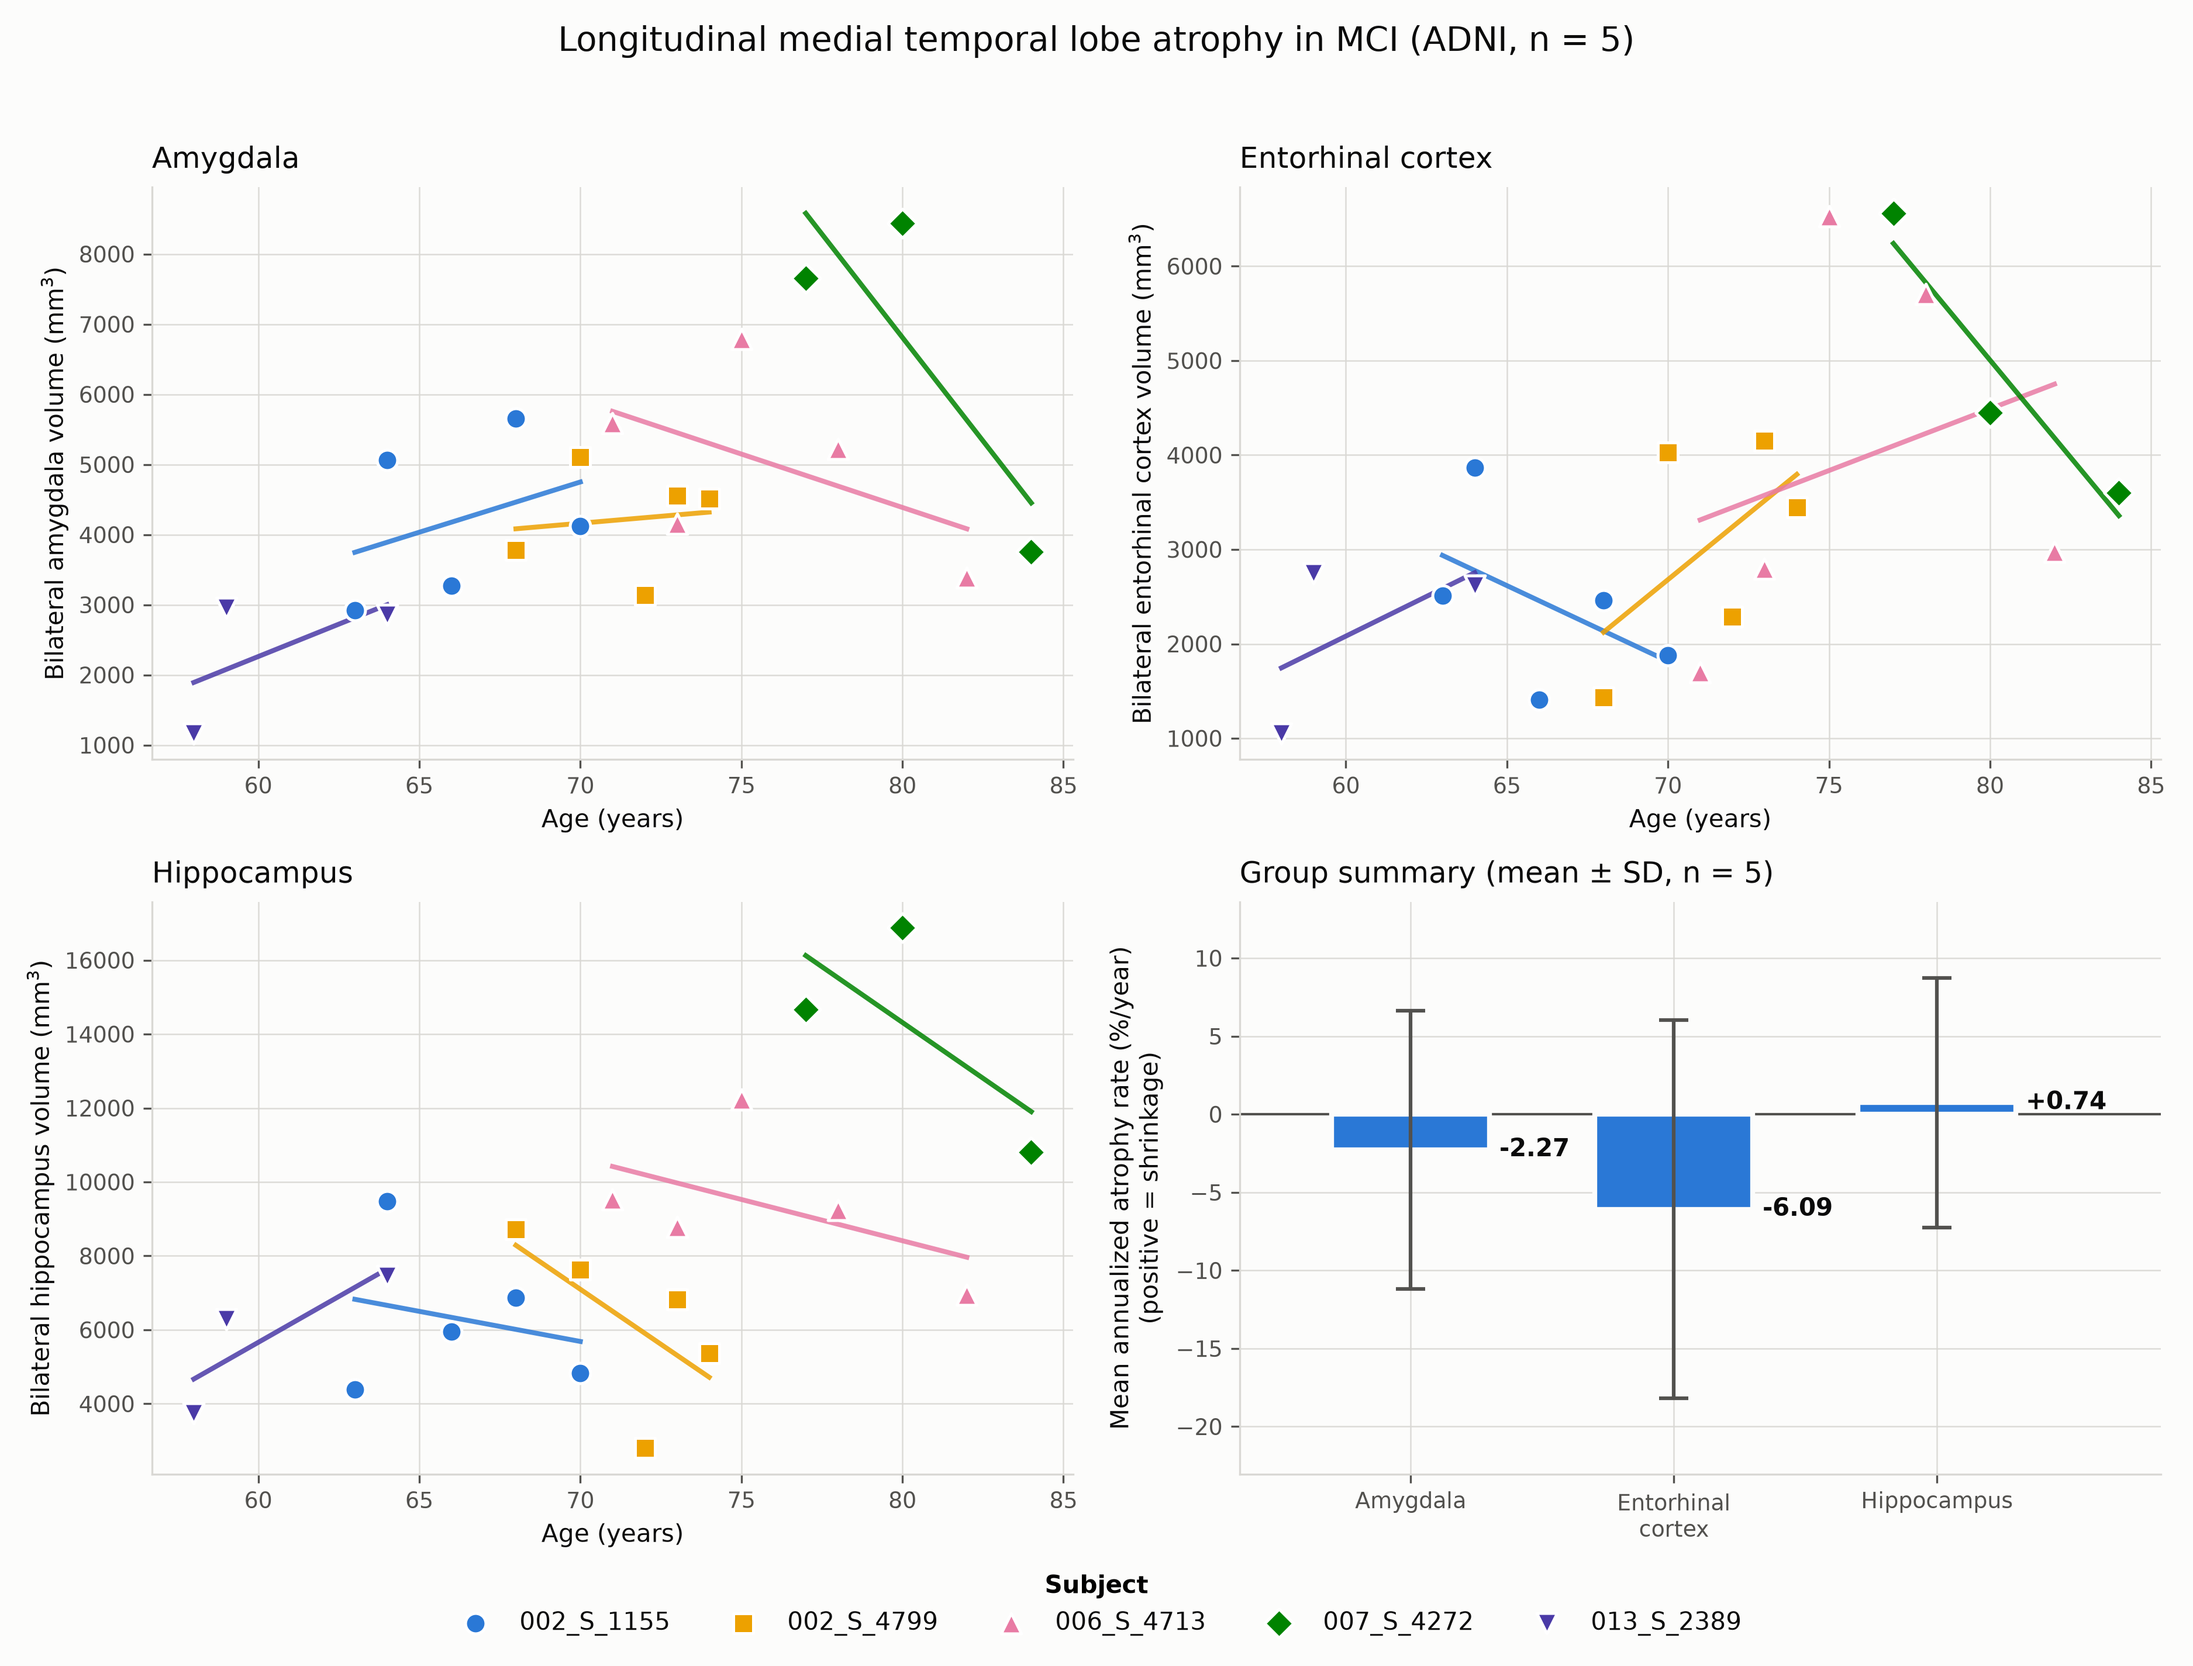
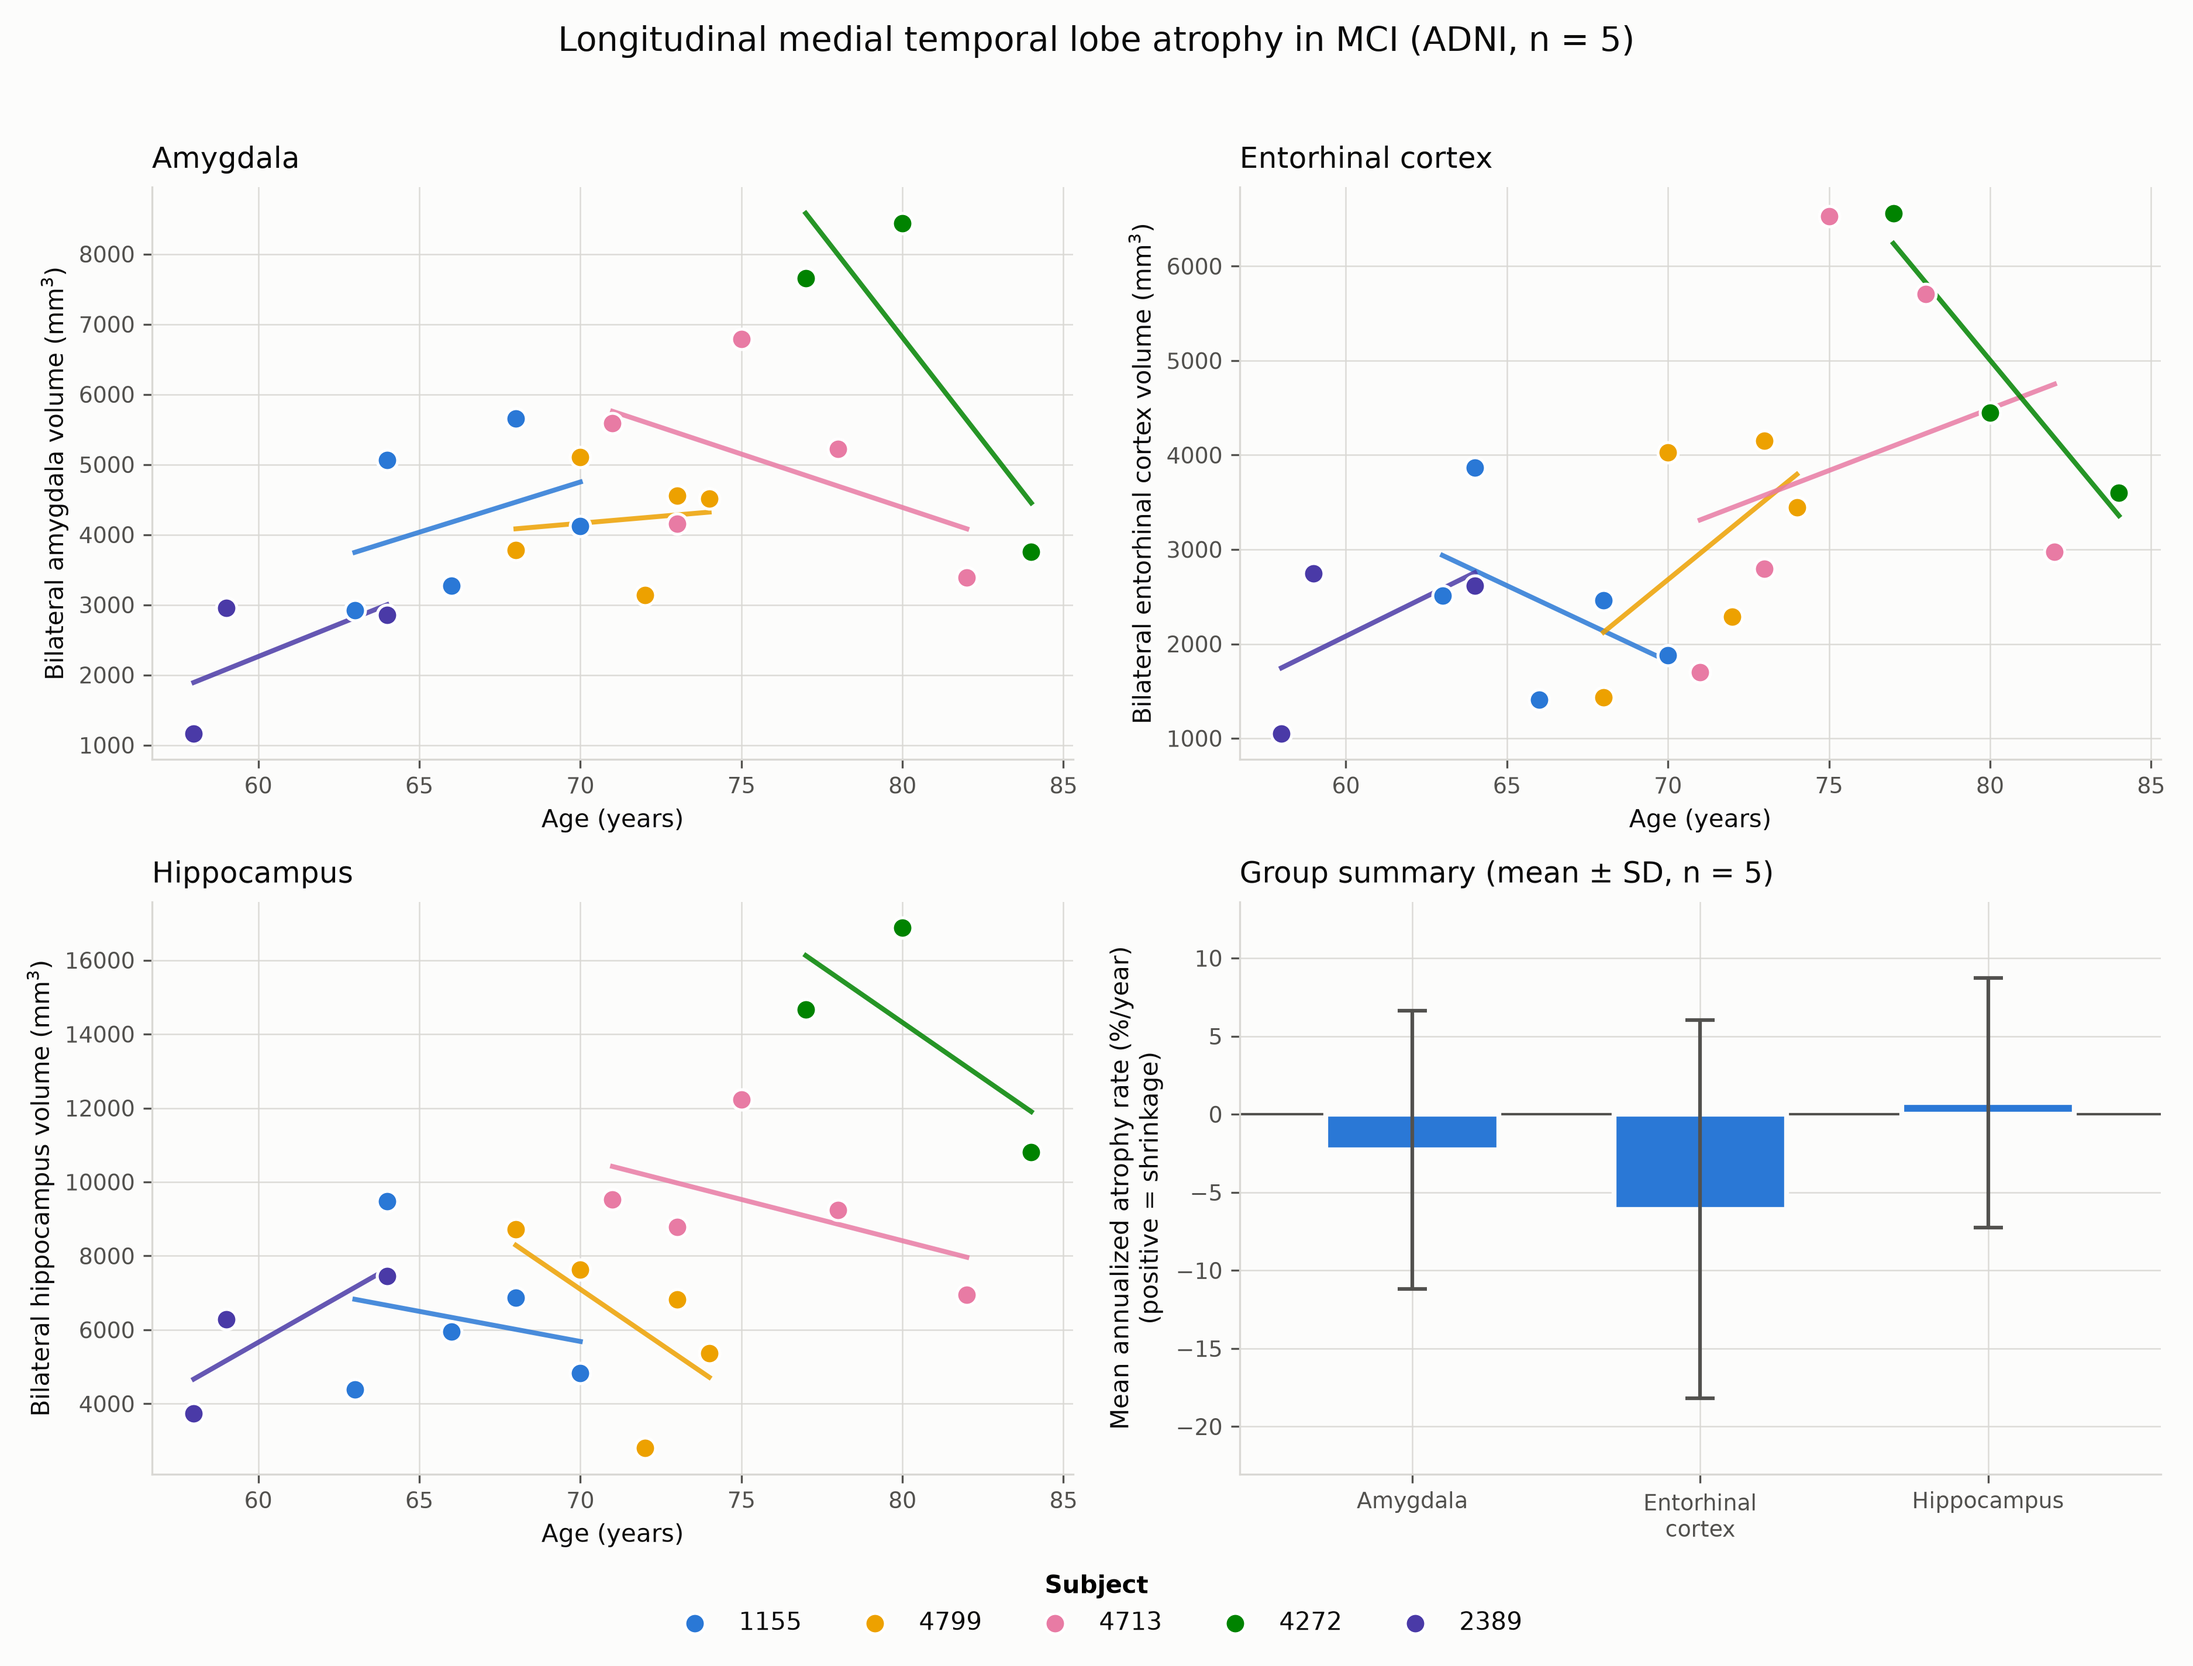
Simplify 2x2 figure styling
- legend labels use the 4-digit subject suffix only
- one marker shape and size for all subjects; colour alone distinguishes
  them, which the palette supports on its own
- drop the printed mean values from the group summary bars

Full subject IDs are still written to the regression CSV.

Claude-Session: https://claude.ai/code/session_01Rjm8mXHdUcS4P64mVTGEAv

diff --git a/make_2x2_figure.py b/make_2x2_figure.py
@@ -21,13 +21,15 @@ from mtl_data import MTL_VOLUMES, REGIONS, SUBJECT_IDS
 
 # Categorical hues validated for all-pairs CVD separation (dataviz palette,
 # slots blue/yellow/magenta/green/violet: CVD dE 13.0, normal-vision dE 16.3).
-SUBJECT_STYLE = {
-    "1155": ("#2a78d6", "o"),
-    "4799": ("#eda100", "s"),
-    "4713": ("#e87ba4", "^"),
-    "4272": ("#008300", "D"),
-    "2389": ("#4a3aa7", "v"),
+# That clears the gate on colour alone, so one marker shape is enough.
+SUBJECT_COLOR = {
+    "1155": "#2a78d6",
+    "4799": "#eda100",
+    "4713": "#e87ba4",
+    "4272": "#008300",
+    "2389": "#4a3aa7",
 }
+MARKER = "o"
 SUBJECT_ORDER = ["1155", "4799", "4713", "4272", "2389"]
 
 BAR_HUE      = "#2a78d6"
@@ -69,11 +71,11 @@ def main():
     for ax, region in zip(axes.flat[:3], REGIONS):
         style_axis(ax)
         for subject in SUBJECT_ORDER:
-            color, marker = SUBJECT_STYLE[subject]
+            color = SUBJECT_COLOR[subject]
             b1, b0, ages, vols, _, _ = fits[subject][region]
-            ax.scatter(ages, vols, s=70, color=color, marker=marker,
+            ax.scatter(ages, vols, s=70, color=color, marker=MARKER,
                        edgecolor="white", linewidth=1.2, zorder=3,
-                       label=SUBJECT_IDS[subject])
+                       label=subject)
             # fitted line across the observed range only
             span = np.array([ages.min(), ages.max()])
             ax.plot(span, b1 * span + b0, color=color, linewidth=2.0,
@@ -98,12 +100,7 @@ def main():
     ax.errorbar(xs, means, yerr=sds, fmt="none", ecolor=INK_SECOND,
                 elinewidth=1.5, capsize=6, capthick=1.5, zorder=3)
     ax.axhline(0, color=INK_SECOND, linewidth=1.0, zorder=1)
-    # Labels sit beside the bar end so they never collide with the error bar.
-    for x, m in zip(xs, means):
-        ax.annotate(f"{m:+.2f}", (x + 0.30, m), textcoords="offset points",
-                    xytext=(4, 0), ha="left", va="center",
-                    fontsize=10, color=INK_PRIMARY, fontweight="bold")
-    ax.set_xlim(-0.65, len(REGIONS) - 0.15)   # headroom for the value labels
+    ax.set_xlim(-0.6, len(REGIONS) - 0.4)
     ax.set_xticks(xs)
     ax.set_xticklabels(["Amygdala", "Entorhinal\ncortex", "Hippocampus"])
     ax.set_ylabel("Mean annualized atrophy rate (%/year)\n(positive = shrinkage)",
